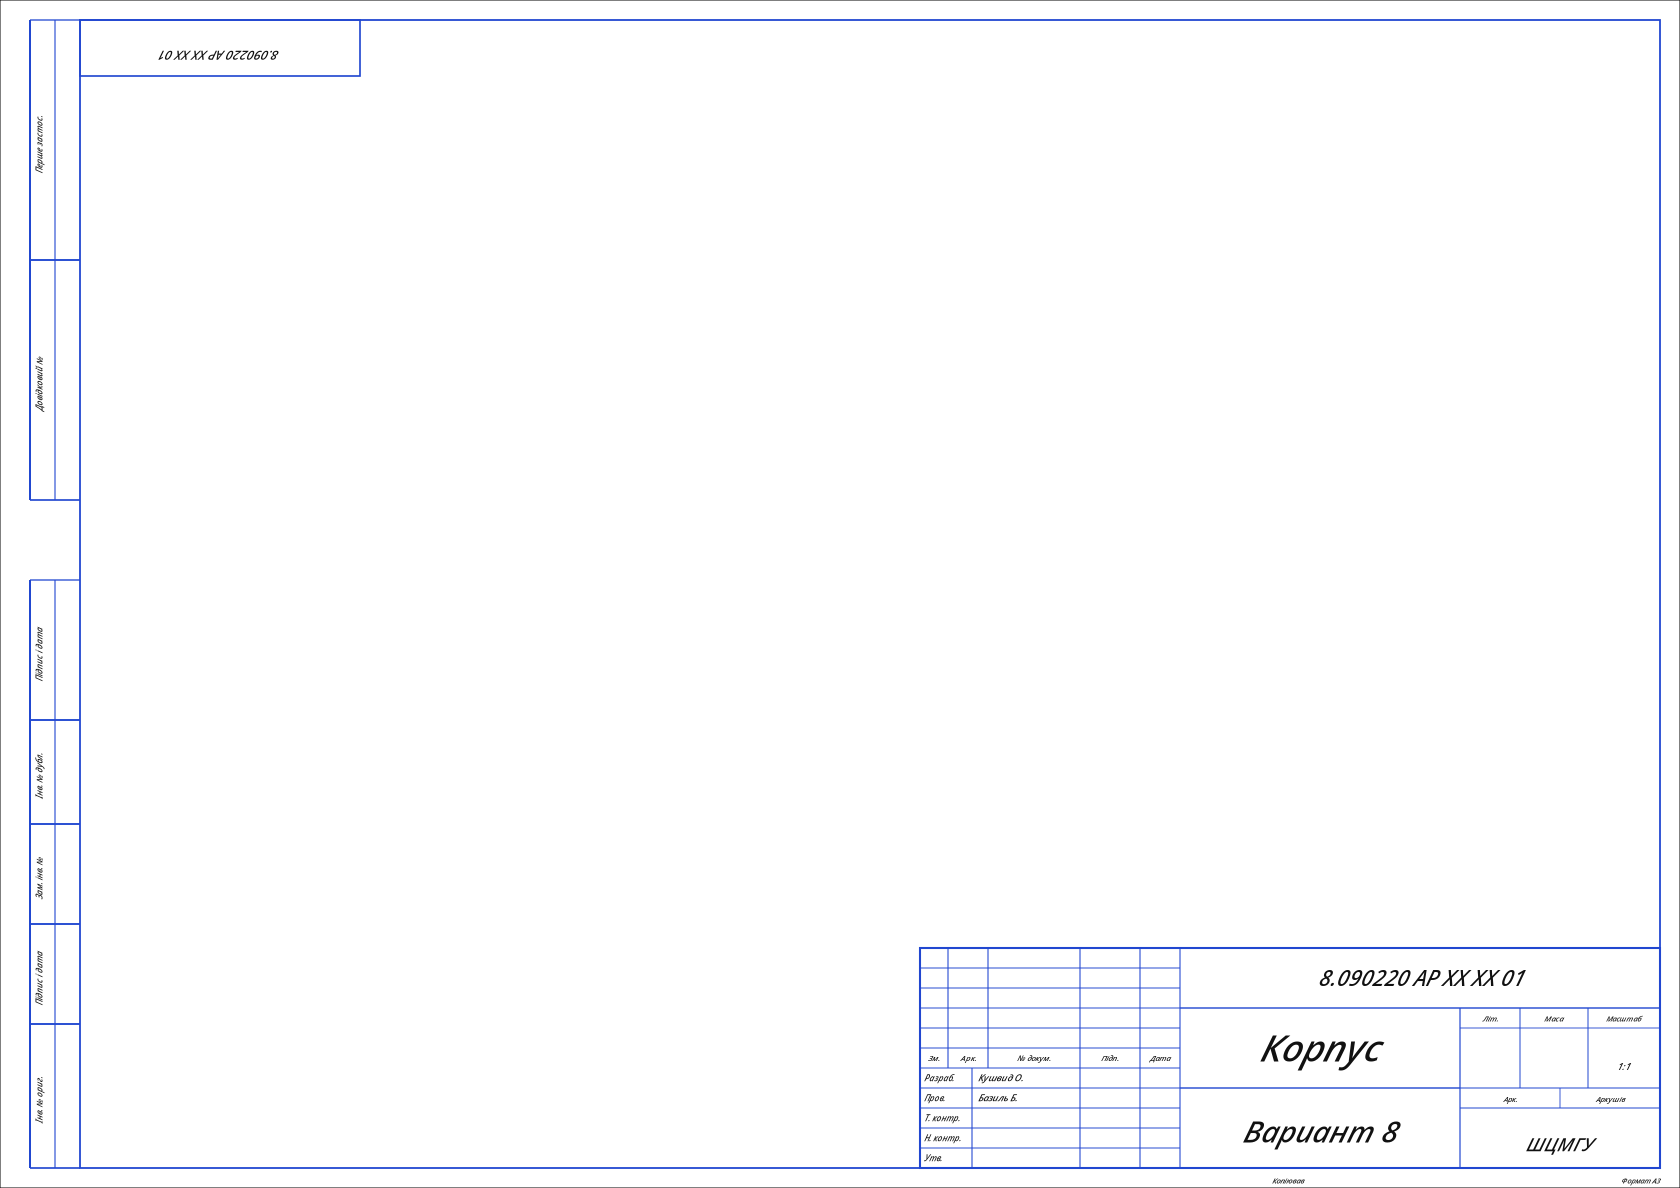
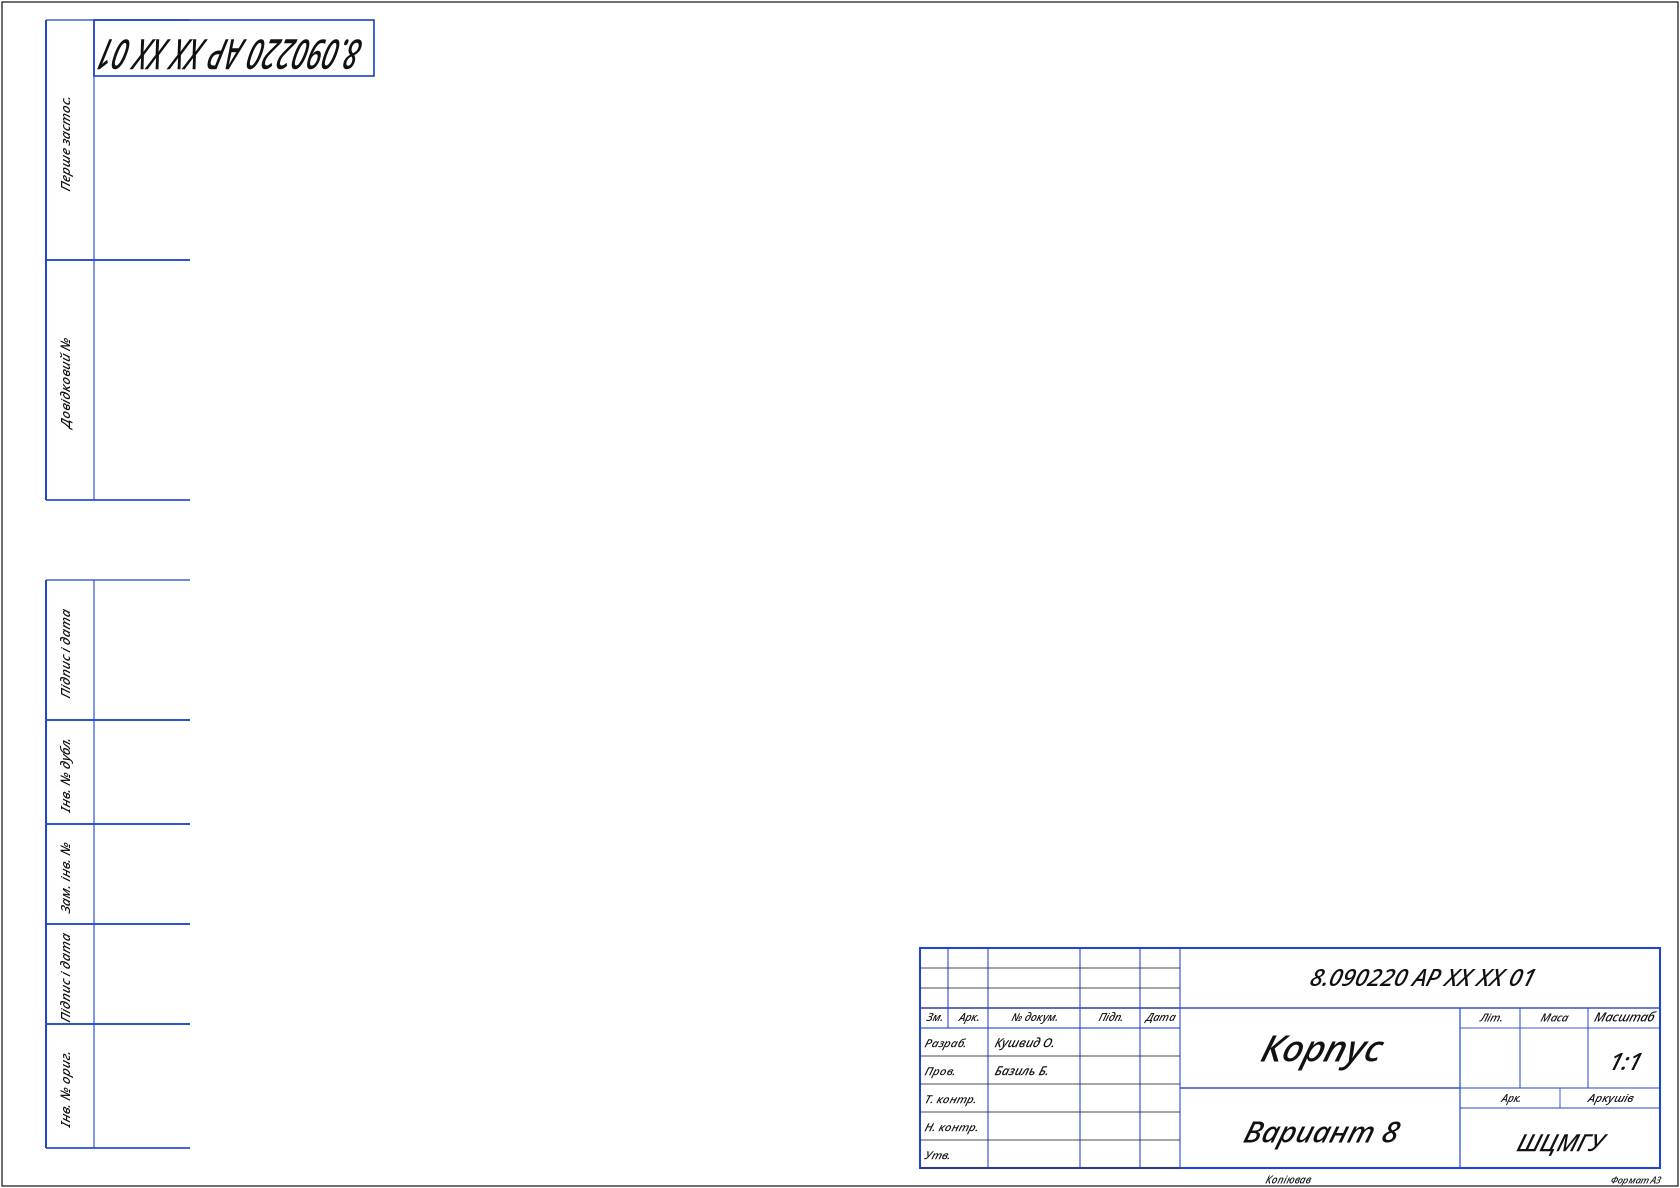
1
1

Changed region(s): [[0.0, 0.0, 1.0, 1.0], [0.7738, 0.8098, 0.9286, 0.8409], [0.8976, 0.9343, 0.9595, 0.9655]]

diff --git a/js/template.js b/js/template.js
@@ -23,7 +23,7 @@
     const h=Math.max(1.8,Number(over.size??size)||2.25);
     const a=over.anchor||anchor;
     const r=Number.isFinite(Number(over.rotation))?Number(over.rotation):rotate;
-    const widthFactor=Math.max(.25,Math.min(3,Number(over.widthFactor)||1));
+    const widthFactor=Math.max(.25,Math.min(3,Number(over.widthFactor??opts.widthFactor)||1));
     const slanted=typeof over.slanted==='boolean'?over.slanted:!!opts.slanted;
     const font=over.font||opts.fontFamily||'GOST type B,Arial,sans-serif';
     const color=over.color||opts.color||TEXT;
@@ -478,92 +478,91 @@
   // A3 drawing sheet reconstructed from the user's technical drawing sample.
   // The central field is empty; all title-block lettering remains editable in the app.
   function technicalA3Template(w,h,d={}){
-    const BLUE='#2147d0', INK='#111111';
-    const ln=(x1,y1,x2,y2,sw=.32)=>`<line x1="${x1}" y1="${y1}" x2="${x2}" y2="${y2}" stroke="${BLUE}" stroke-width="${sw}" fill="none"/>`;
+    const BLUE='#2147d0', INK='#111111', GRID='#333333';
+    const ln=(x1,y1,x2,y2,sw=.32,color=BLUE)=>`<line x1="${x1}" y1="${y1}" x2="${x2}" y2="${y2}" stroke="${color}" stroke-width="${sw}" fill="none"/>`;
     const rc=(x,y,width,height,sw=.45)=>`<rect x="${x}" y="${y}" width="${width}" height="${height}" fill="none" stroke="${BLUE}" stroke-width="${sw}"/>`;
-    const tx=(x,y,value,size=2.2,anchor='start',rotate=0)=>txt(x,y,value,size,anchor,rotate,{
-      slanted:true,italic:true,fontFamily:"'GOST type B','ISO 3098','DejaVu Sans',Arial,sans-serif",color:INK
+    const tx=(x,y,value,size=2.6,anchor='start',rotate=0,widthFactor=1)=>txt(x,y,value,size,anchor,rotate,{
+      slanted:true,italic:true,widthFactor,fontFamily:"'GOST type B','ISO 3098','DejaVu Sans',Arial,sans-serif",color:INK
     });
-    const frameX=20, frameY=5, frameW=w-25, frameH=h-10;
-    let out='';
-    // The blue drawing frame is rendered on the dedicated sheet-frame layer,
-    // so it remains visible when the title-block/template layer is hidden.
 
-    // Archival / reference fields in the left margin, matching the sample's interrupted strip.
-    const ax0=7.5,ax1=13.75,ax2=20;
+    // Left archive strip and main drawing field follow the supplied Lab 8 prototype.
+    // The left cells are 12 mm + 24 mm wide; the main drawing frame starts at 48 mm.
+    let out='';
+    const ax0=11.5, ax1=23.5, ax2=47.5;
     const baseBands=[
       [5,65,'Перше застос.'],[65,125,'Довідковий №'],
       [145,180,'Підпис і дата'],[180,206,'Інв. № дубл.'],[206,231,'Зам. інв. №'],
-      [231,256,'Підпис і дата'],[256,292,'Інв. № ориг.']
+      [231,256,'Підпис і дата'],[256,287,'Інв. № ориг.']
     ];
-    // Preserve the standard 20 mm binding strip while distributing its cells
-    // over the full usable height of A4/A3/A2 portrait or landscape sheets.
     const bandScale=(h-10)/287;
     const bands=baseBands.map(([a,b,label])=>[5+(a-5)*bandScale,5+(b-5)*bandScale,label]);
-    bands.forEach(([a,b,label],i)=>{
+    bands.forEach(([a,b,label])=>{
       out+=ln(ax0,a,ax2,a,.32)+ln(ax0,b,ax2,b,.42);
       out+=ln(ax0,a,ax0,b,.5)+ln(ax1,a,ax1,b,.28);
-      out+=tx((ax0+ax1)/2,(a+b)/2+1.1,label,2.0,'middle',-90);
+      out+=tx((ax0+ax1)/2,(a+b)/2+1.1,label,3.3,'middle',-90);
     });
 
-    // Small document-designation cell at the upper-left corner of the drawing field.
+    // Upper-left designation cell: larger lettering to match the reference image.
     const code=String(d.code||'8.090220 АР ХХ ХХ 01');
-    out+=rc(20,5,70,14,.42);
-    out+=tx(55,12.7,code,3.15,'middle',180);
+    const codeX=23.5, codeW=70;
+    out+=rc(codeX,5,codeW,14,.42);
+    out+=tx(codeX+codeW/2,9.8,code,10.5,'middle',180,.64);
 
-    // Main inscription: fixed 185 x 55 mm, anchored 5 mm from right and bottom edges.
+    // Main title block keeps the reference's 185 x 55 mm footprint.
     const bx=w-190, by=h-60, right=bx+185;
     out+=rc(bx,by,185,55,.52);
-    // The revision header keeps its five narrow columns. Below it, the role/name
-    // area is merged into readable fields: 13 mm for the role, 27 mm for the name,
-    // then 15 mm for signature and 10 mm for date. This prevents T./N. control
-    // labels from spilling into adjacent cells when the lettering is enlarged.
+
+    // Left-hand approval table: three 5 mm blank rows, one 5 mm header row,
+    // then five 7 mm role rows, matching the supplied prototype.
     const headerXs=[bx+7,bx+17,bx+40,bx+55,bx+65];
-    headerXs.forEach(x=>out+=ln(x,by,x,by+30,.27));
-    [5,10,15,20,25,30].forEach(n=>out+=ln(bx,by+n,bx+65,by+n,.24));
-    const bodyXs=[bx+13,bx+40,bx+55,bx+65];
-    bodyXs.forEach(x=>out+=ln(x,by+30,x,by+55,.27));
-    [35,40,45,50,55].forEach(n=>out+=ln(bx,by+n,bx+65,by+n,.24));
-    const headerY=by+28.25;
+    headerXs.forEach(x=>out+=ln(x,by,x,by+20,.27));
+    [5,10,15].forEach(n=>out+=ln(bx,by+n,bx+65,by+n,.22,GRID));
+    out+=ln(bx,by+15,bx+65,by+15,.28,BLUE);
+    // Header baseline and role/name column grid.
+    out+=ln(bx,by+20,bx+65,by+20,.28,BLUE);
+    const bodyXs=[bx+17,bx+40,bx+55,bx+65];
+    bodyXs.forEach(x=>out+=ln(x,by+20,x,by+55,.27));
+    [27,34,41,48,55].forEach(n=>out+=ln(bx,by+n,bx+65,by+n,.22,GRID));
+    const headerY=by+18.25;
     [['Зм.',bx,bx+7],['Арк.',bx+7,bx+17],['№ докум.',bx+17,bx+40],['Підп.',bx+40,bx+55],['Дата',bx+55,bx+65]].forEach(([label,a,b])=>{
-      out+=tx((a+b)/2,headerY,label,1.95,'middle');
+      out+=tx((a+b)/2,headerY,label,2.7,'middle');
     });
     const roles=['Разраб.','Пров.','Т. контр.','Н. контр.','Утв.'];
     const roleValues=[d.developer||'Кушвид О.',d.checker||'Базиль Б.',d.technical||'',d.normative||'',d.approved||''];
     roles.forEach((role,i)=>{
-      const baseline=by+33.3+i*5;
-      out+=tx(bx+1,baseline,role,2.0,'start');
-      if(roleValues[i])out+=tx(bx+14.5,baseline,roleValues[i],2.35,'start');
+      const baseline=by+24.8+i*7;
+      out+=tx(bx+1,baseline,role,2.9,'start');
+      if(roleValues[i])out+=tx(bx+18.5,baseline,roleValues[i],3.1,'start');
     });
 
-    // Central designation, detail name and variant fields.
+    // Main title, drawing designation and variant retain their original positions.
     const midX=bx+135;
     out+=ln(bx+65,by+15,right,by+15,.35);
     out+=ln(bx+65,by+35,bx+135,by+35,.35);
-    out+=tx(bx+125,by+9.5,code,5.25,'middle');
+    out+=tx(bx+125,by+9.5,code,5.8,'middle');
     out+=tx(bx+100,by+28.4,d.title||'Корпус',9.2,'middle');
     out+=tx(bx+100,by+48.6,'Вариант 8',7.35,'middle');
 
-    // Right-hand data cells: literature, mass, scale, sheet captions and organisation.
+    // Right-side cells; scale value is deliberately legible, unlike the tiny source placeholder.
     out+=ln(midX,by+15,midX,by+55,.3);
     out+=ln(bx+150,by+15,bx+150,by+35,.25);
     out+=ln(bx+167,by+15,bx+167,by+35,.25);
     out+=ln(midX,by+20,right,by+20,.22);
-    out+=tx(bx+142.5,by+18.4,'Літ.',1.95,'middle');
-    out+=tx(bx+158.5,by+18.4,'Маса',1.95,'middle');
-    out+=tx(bx+176,by+18.4,'Масштаб',1.85,'middle');
-    out+=tx(bx+142.5,by+30.5,String(d.liter||''),2.35,'middle');
-    out+=tx(bx+158.5,by+30.5,String(d.mass||''),2.35,'middle');
-    out+=tx(bx+176,by+30.5,String(d.scale||'1:1'),2.35,'middle');
+    out+=tx(bx+142.5,by+18.4,'Літ.',2.8,'middle');
+    out+=tx(bx+158.5,by+18.4,'Маса',2.8,'middle');
+    out+=tx(bx+176,by+18.4,'Масштаб',3.2,'middle');
+    out+=tx(bx+142.5,by+30.5,String(d.liter||''),3.0,'middle');
+    out+=tx(bx+158.5,by+30.5,String(d.mass||''),3.0,'middle');
+    out+=tx(bx+176,by+30.5,String(d.scale||'1:1'),6.0,'middle');
     out+=ln(midX,by+35,right,by+35,.25)+ln(midX,by+40,right,by+40,.25);
     out+=ln(bx+160,by+35,bx+160,by+40,.22);
-    out+=tx(bx+147.5,by+38.5,'Арк.',1.85,'middle');
-    out+=tx(bx+172.5,by+38.5,'Аркушів',1.85,'middle');
-    out+=tx(bx+160,by+50.8,d.company||'ШЦМГУ',4.55,'middle');
+    out+=tx(bx+147.5,by+38.5,'Арк.',2.6,'middle');
+    out+=tx(bx+172.5,by+38.5,'Аркушів',2.9,'middle');
+    out+=tx(bx+160,by+50.8,d.company||'ШЦМГУ',6.0,'middle');
 
-    // Footer captions below the frame.
-    out+=tx(bx+92,h-1.15,'Копіював',1.9,'middle');
-    out+=tx(w-5,h-1.15,'Формат '+String(formatLabel(w,h)),1.8,'end');
+    // Footer labels below the blue frame, as in the user's prototype.
+    out+=tx(bx+92,h-1.15,'Копіював',2.45,'middle');
+    out+=tx(w-5,h-1.15,'Формат '+String(formatLabel(w,h)),2.35,'end');
     return out;
   }
   function formatLabel(w,h){return (Math.max(w,h)===420?'А3':(Math.max(w,h)===297?'А4':(Math.max(w,h)===594?'А2':(Math.max(w,h)===841?'А1':'А0'))));}

diff --git a/js/app.js b/js/app.js
@@ -180,7 +180,7 @@ import { cutPolygonNotchAtPoint, cutCircleNotchAtPoint, cutPolygonNotchWithoutBo
       const k=Math.min(d.w/210,d.h/297);
       add(sheetFrameLayer,'rect',{x:20*k,y:5*k,width:185*k,height:287*k,fill:'none',stroke:'#000000','stroke-width':.5,'vector-effect':'non-scaling-stroke'});
     }else if(isLab8){
-      add(sheetFrameLayer,'rect',{x:20,y:5,width:Math.max(1,d.w-25),height:Math.max(1,d.h-10),fill:'none',stroke:'#2147d0','stroke-width':.45,'vector-effect':'non-scaling-stroke'});
+      add(sheetFrameLayer,'rect',{x:47.5,y:5,width:Math.max(1,d.w-52.5),height:Math.max(1,d.h-10),fill:'none',stroke:'#2147d0','stroke-width':.45,'vector-effect':'non-scaling-stroke'});
     }else if(isGostPreset){
       // The editable Form 1 markup owns its exact frame geometry; do not draw it twice.
     }else if(isLegacyLab5||state.titleForm==='technical-a3-template'){
@@ -1528,7 +1528,7 @@ import { cutPolygonNotchAtPoint, cutCircleNotchAtPoint, cutPolygonNotchWithoutBo
     const sheetSize=dimensions(),protectedZones=[];
     const activeForm=state.titleForm;
     if(activeForm==='lab4-reference-template'&&state.format==='A3P')protectedZones.push({x:18,y:325,w:278,h:90},{x:18,y:3,w:140,h:38});
-    else if(activeForm==='lab8-reference-template'&&state.format==='A3L')protectedZones.push({x:220,y:227,w:200,h:70},{x:18,y:3,w:75,h:18});
+    else if(activeForm==='lab8-reference-template'&&state.format==='A3L')protectedZones.push({x:220,y:227,w:200,h:70},{x:22,y:3,w:75,h:18});
     else if(activeForm==='lab5-a4-reference-template'&&state.format==='A4P')protectedZones.push({x:18,y:232,w:190,h:65},{x:18,y:3,w:95,h:23});
     else if(['lab5-gost-a3-landscape','technical-gost-a3-landscape','lab5-gost-a3-portrait','technical-gost-a3-portrait'].includes(activeForm)){
       protectedZones.push({x:sheetSize.w-195,y:sheetSize.h-65,w:195,h:65},{x:sheetSize.w-22,y:2,w:20,h:75});

diff --git a/README.md b/README.md
@@ -1,4 +1,4 @@
-# CAD Geometry Core 1.5.57
+# CAD Geometry Core 1.5.58
 
 2D mechanical CAD editor for technical drawings in millimetres. The template gallery now exposes the distinct drawing-frame layouts supplied in the conversation or generated for this project.
 
@@ -64,5 +64,10 @@ Arrow 1: the filled arrowhead grows or shrinks proportionally with the line weig
 
 Инструмент автоматически собирает замкнутую область даже из отдельных соединённых отрезков/дуг. Если жест начинается внутри отверстия, внешний контур открывается к отверстию, соответствующий участок внутренней дуги удаляется, а боковые стенки соединяются с ней. Для этого протяни линию из отверстия за внешний край детали.
 
-### Lab 8 A3 landscape title block update (1.5.57)
+### Lab 8 A3 landscape title block update (1.5.58)
 The Lab 8 title block uses larger lettering. The role column is widened to 13 mm and the name field is merged to 27 mm, so `Т. контр.` and `Н. контр.` no longer overlap adjacent cells. The default name rows are `Кушвид О.` (Разраб.) and `Базиль Б.` (Пров.).
+
+### ЛР8 — финальная сверка шрифта и расположения (1.5.58)
+- Увеличены надписи в левой вертикальной полосе, мелкие заголовки таблицы и значения масштаба `1:1`.
+- Текст обозначения в верхнем левом поле центрирован и уменьшен по высоте относительно предыдущего черновика, чтобы не выходить за границу прямоугольника.
+- Сохранена геометрия рамки по исходному прототипу: две левые колонки, верхняя ячейка обозначения, нижний правый штамп и интервалы служебных полей.

diff --git a/templates/README.md b/templates/README.md
@@ -1,4 +1,4 @@
-# Каталог рамок CAD Geometry Core 1.5.57
+# Каталог рамок CAD Geometry Core 1.5.58
 
 В активной библиотеке семь различных вариантов:
 
@@ -19,10 +19,15 @@
 
 Размер листа можно менять после выбора шаблона: А4 (210×297 мм), А3 (297×420 мм), А2 (420×594 мм), книжная или альбомная ориентация. Шаблон задаёт только рекомендуемый начальный формат. SVG/PDF и печать используют фактически выбранные размеры листа.
 
-## Исправление ЛР8 (1.5.57)
+## Исправление ЛР8 (1.5.58)
 
 - Увеличены надписи в рамке, шапке и основной надписи.
 - Перестроена нижняя левая таблица: 13 мм под наименование должности, 27 мм под ФИО, далее поля подписи и даты.
 - `Т. контр.` и `Н. контр.` больше не заходят за границу своей ячейки.
 - По умолчанию в строках разработчика и проверяющего: `Кушвид О.` и `Базиль Б.`.
 - Формат листа сохранён: А3 альбомный, 420 × 297 мм.
+
+## Сверка ЛР8 по прототипу (1.5.58)
+- Увеличены тексты левой полосы, подписи малых граф и масштаб `1:1`.
+- Обозначение в верхнем левом поле центрировано и ограничено областью своей ячейки.
+- Сверены основные пропорции рамки, левой служебной полосы и нижнего штампа с исходным образцом пользователя.

diff --git a/START_HERE.md b/START_HERE.md
@@ -1,4 +1,4 @@
-# Начало работы — CAD Geometry Core 1.5.57
+# Начало работы — CAD Geometry Core 1.5.58
 
 ## Библиотека рамок: 7 вариантов
 
@@ -47,5 +47,8 @@ For **Стрелка 1**, change **Толщина линии** in Object Propert
 
 **Лабораторная работа №8 (А3 альбомный):** увеличенный шрифт и исправленные ширины ячеек штампа; поля «Разраб.» и «Пров.» по умолчанию заполнены `Кушвид О.` и `Базиль Б.`.
 
-### Лабораторная работа №8 — исправление штампа 1.5.57
+### Лабораторная работа №8 — исправление штампа 1.5.58
 Для А3 альбомного увеличен шрифт. «Т. контр.» и «Н. контр.» помещаются в расширенную ячейку 13 мм; поле имени — 27 мм. По умолчанию заполнены `Кушвид О.` и `Базиль Б.`.
+
+### Сверка ЛР8 по прототипу (1.5.58)
+Размер шрифта в левой полосе и в графе `1:1` увеличен. Надпись обозначения в левом верхнем поле размещена внутри ячейки. Проверена общая компоновка по исходному образцу.

diff --git a/CHANGELOG.md b/CHANGELOG.md
@@ -1,3 +1,9 @@
+## 1.5.58 — Lab 8 typography and prototype alignment
+- Increased the vertical left-strip labels and small title-block captions for legibility.
+- Increased the `1:1` scale value to 6 mm text height.
+- Repositioned and resized the upper-left drawing designation to keep it inside its cell while preserving its near-full-width appearance.
+- Rechecked the left archive strip, upper designation cell, title-block row grid, main title, variant, company label, and footer against the supplied Lab 8 reference.
+
 ## 1.5.56 — fixed inside-to-outside pass cut
 - Added an application-style regression test that reconstructs a part perimeter from four separate line entities, detects a separate circular bore, and joins the cut walls to the remaining bore arc.
 - A release exactly on the outer profile is now accepted and nudged slightly past the boundary along the same drag vector; releases that stop inside the material are still rejected with a clear prompt.
